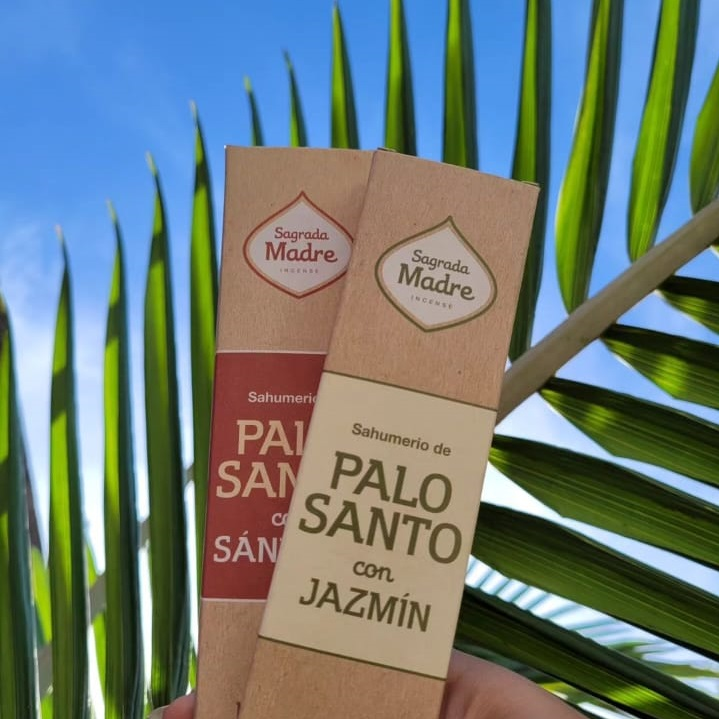
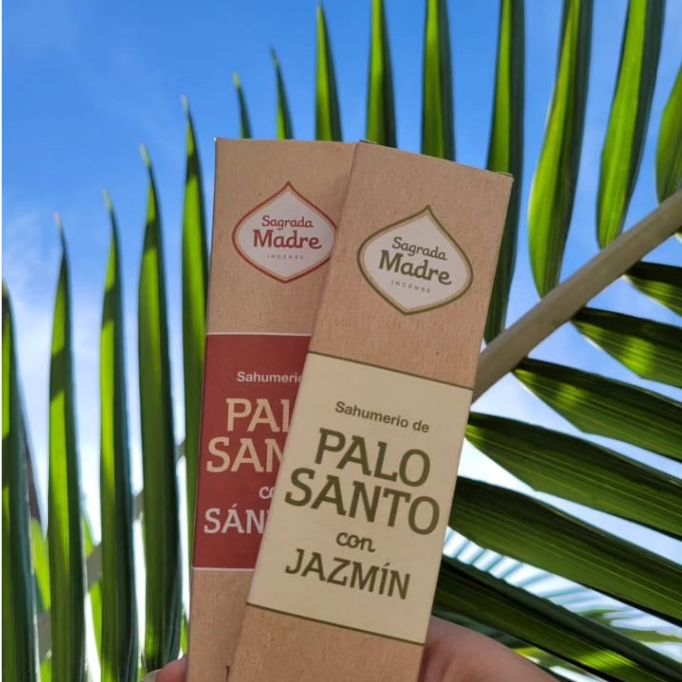
se modifican fotos carrusel

diff --git a/index.html b/index.html
@@ -40,13 +40,13 @@
 
       <div class="carousel-inner">
         <div class="carousel-item active">
-          <img src="Carrusel/Carrusel1.JPG" class="d-block w-100" alt="Productos destacados">
+          <img src="./Fotos/Saumerios2.png" class="d-block w-100" alt="Productos destacados">
         </div>
         <div class="carousel-item">
-          <img src="Carrusel/Carrusel2.png" class="d-block w-100" alt="Promocion 1">
+          <img src="./Fotos/hornito2.jpg" class="d-block w-100" alt="Promocion 1">
         </div>
         <div class="carousel-item">
-          <img src="Carrusel/Carrusel3.jpg" class="d-block w-100" alt="Promocion 2">
+          <img src="./Fotos/Velas2.png" class="d-block w-100" alt="Promocion 2">
         </div>
       </div>
       <a class="carousel-control-prev" href="#carouselExampleIndicators" role="button" data-slide="prev">

diff --git a/script.js b/script.js
@@ -37,3 +37,15 @@ function updateCart() {
 }
 
 
+const products = [
+    { id: 1, name: 'Producto 1', price: 10 },
+    { id: 2, name: 'Producto 2', price: 20 },
+    { id: 3, name: 'Producto 3', price: 30 }
+];
+
+products.forEach(product => {
+    const addButton = document.createElement('button');
+    addButton.textContent = `Agregar ${product.name} - $${product.price.toFixed(2)}`;
+    addButton.addEventListener('click', () => addToCart(product));
+    document.body.appendChild(addButton);
+});

diff --git a/Styles/styles.css b/Styles/styles.css
@@ -225,8 +225,8 @@ color: #fff;
 }
 
 .carousel-item img {
-    max-height: 400px; 
-    object-fit: cover;
+    max-height: 350px; 
+    object-fit: contain;
   }
 
 
